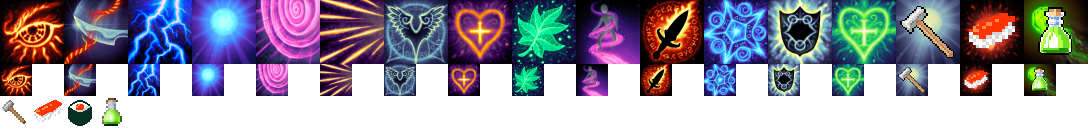
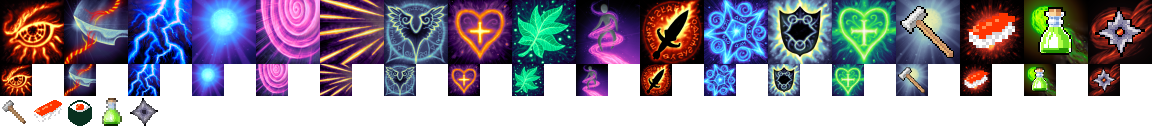
Karateh Masta: an unlockable hero who throws ninja death stars
Beat the game (slay the Devil) and the results screen announces NEW
HERO UNLOCKED: KARATEH MASTA; the unlock is kept in localStorage. Until
then he sits in the select grid as a silhouette with a "?", and his
panel only says LOCKED / BEAT THE GAME TO UNLOCK (START won't take him).

- Art: LPC generator (white gi, black obi, red tied headband, spiked
  black hair, bare feet; CC-BY-SA, per-part credits in CREDITS-LPC.md),
  1x and HD (64px frames xBR'd then fitted to 80px); the thrust row is
  his throwing punch.
- Death Stars: a fan of 2-4 spinning throwing stars at the nearest foes,
  each slicing through 1-3 enemies (a star cuts each foe only once).
  Star and icon from 7Soul1's CC0 RPG icons on a Bjerk painted
  background; 16px projectile on the skills sheet.
- Stats: tough and quick (+20 HP, x1.2 speed, 25% crit, x1.25 damage,
  x0.85 cooldowns) — a reward for winning.
- Hurt voice: thebardofblasphemy's CC0 grunt, pitched up.

Claude-Session: https://claude.ai/code/session_01PMVu6fudvx91nmgD8yVYSR

diff --git a/game/game.js b/game/game.js
@@ -171,7 +171,7 @@ const sndHurt = () => sfx(110, 0.2, 'sawtooth', 0.08, -40);
 
 // Sampled hurt voices, one per hero (Biski meows) — see assets/CREDITS.md.
 // Decoded once audio is unlocked; until then (or on file:// pages) the synth thud stands in.
-const VOICE_FILES = ['visor', 'wildcat', 'skywitch', 'ace', 'mender', 'biski', 'neil', 'zoe', 'ana'];
+const VOICE_FILES = ['visor', 'wildcat', 'skywitch', 'ace', 'mender', 'biski', 'neil', 'zoe', 'ana', 'karate'];
 const SFX_FILES = ['banshee-scream', 'butcher-roar'];   // assets/sfx/<name>.mp3
 const voiceBuf = {};
 let voicesRequested = false, lastVoiceT = -9;
@@ -1047,7 +1047,7 @@ const ASSET_FILES = ['warrior', 'wizard', 'ranger', 'rogue', 'cleric',
   'jungle', 'snake', 'treant', 'plant', 'mosquito', 'monkey', 'frog',
   'ocean', 'axolotl', 'piranha', 'jelly', 'crab', 'shark', 'squid', 'eel', 'kraken',
   'hell', 'hellbeast', 'fireskull', 'ghoul', 'cultist', 'nightmare', 'devilkin', 'devil',
-  'map1', 'map2', 'map3', 'map4', 'map5'];
+  'map1', 'map2', 'map3', 'map4', 'map5', 'karate'];
 const assets = {};
 function loadAssets() {
   return Promise.all(ASSET_FILES.map(name => new Promise((res, rej) => {
@@ -1188,6 +1188,7 @@ const SHEETS = {
   neil:     { file: 'neil',       size: 40, rows: STD, frames: { idle: 1, walk: 8, attack: 7, death: 6 } },
   zoe:      { file: 'zoe',        size: 40, rows: STD, frames: { idle: 1, walk: 8, attack: 6, death: 1 } },
   ana:      { file: 'ana',        size: 40, rows: STD, frames: { idle: 1, walk: 8, attack: 7, death: 6 } },
+  karate:   { file: 'karate',     size: 40, rows: STD, frames: { idle: 1, walk: 8, attack: 8, death: 6 } },
   butcher:  { file: 'butcher',  size: 96, rows: STD, frames: { idle: 1, walk: 8, attack: 10, death: 6 } },
   banshee:  { file: 'banshee',  size: 40, rows: STD, frames: { idle: 1, walk: 4, attack: 4, death: 2 } },
   golem:    { file: 'golem',    size: 48, rows: STD, frames: { idle: 1, walk: 7, attack: 7, death: 7 } },
@@ -1224,9 +1225,9 @@ const SHEETS = {
 };
 // painted skill icons (assets/skills.png): row 0 = 32x32, row 1 = 16x16, in this order
 const SKILL_ORDER = ['optic', 'claws', 'storm', 'orbs', 'nova', 'cards', 'boots', 'vitality',
-  'regen', 'magnet', 'power', 'focus', 'plating', 'heal', 'hammer', 'sushi', 'acid'];
-// projectile sprites on the sheet's bottom row (y=48): hammer 14px, nigiri 16px, maki 16px, acid flask 16px
-const PROJ = { hammer: [0, 49, 14, 14], nigiri: [16, 48, 16, 16], maki: [32, 48, 16, 16], flask: [48, 48, 16, 16] };
+  'regen', 'magnet', 'power', 'focus', 'plating', 'heal', 'hammer', 'sushi', 'acid', 'stars'];
+// projectile sprites on the sheet's bottom row (y=48): hammer 14px, nigiri 16px, maki 16px, acid flask 16px, throwing star 16px
+const PROJ = { hammer: [0, 49, 14, 14], nigiri: [16, 48, 16, 16], maki: [32, 48, 16, 16], flask: [48, 48, 16, 16], star: [64, 48, 16, 16] };
 // draw a projectile centred on (x, y), turned in quarter steps so pixels stay square
 function drawProj(key, x, y, quarter = 0) {
   if (!SPR.skills) return;
@@ -2301,6 +2302,27 @@ const WEAPON_DEFS = {
       return true;
     },
   },
+  stars: {
+    name: 'Death Stars',
+    desc: 'A fan of spinning throwing stars that slice through several foes each.',
+    cd: 0.75,
+    fire(w) {
+      const n = 2 + Math.floor(w.level / 2) + ampN();   // 2,3,3,4,4
+      const targets = nearestEnemies(n);
+      if (!targets.length) return false;
+      for (let i = 0; i < n; i++) {
+        const t = targets[i % targets.length], spread = i < targets.length ? 0 : (i % 2 ? 1 : -1) * 0.22 * Math.ceil(i / 2);
+        const a = Math.atan2(t.y - player.y, t.x - player.x) + spread;
+        bullets.push({
+          x: player.x, y: player.y - 16, vx: Math.cos(a) * 470, vy: Math.sin(a) * 470,
+          r: 6 * amp(), dmg: (9 + w.level * 5) * player.dmgMult, life: 1.1, t: 0,
+          kind: 'star', pierce: 1 + Math.floor(w.level / 2), hits: new Set(),
+        });
+      }
+      sfx(1400, 0.05, 'triangle', 0.025, -600);   // the swish
+      return true;
+    },
+  },
   cards: {
     name: 'Kinetic Cards',
     desc: 'Charged playing cards that detonate on impact.',
@@ -2375,7 +2397,24 @@ const HEROES = [
   { id: 'ana', name: 'Ana', sprite: 'ana', color: '#92FF24',
     tag: 'Acid thrower', desc: 'Black glasses, a mane of blonde curls and a bag of acid flasks. They shatter into puddles that eat anything standing in them.',
     weapon: 'acid', mods: () => { player.maxHp += 10; player.hp += 10; player.magnetR *= 1.15; player.cdMult *= 0.95; } },
+  // the reward for beating the game: locked until the Devil falls
+  { id: 'karate', name: 'Karateh Masta', sprite: 'karate', color: '#FF2424', unlock: 'win',
+    tag: 'Death-star thrower', desc: 'A red headband, a black belt and a bottomless gi full of ninja death stars. Fast, deadly, and never misses a beat.',
+    weapon: 'stars', mods: () => {
+      player.maxHp += 20; player.hp += 20; player.speed *= 1.2; player.critChance = 0.25; player.dmgMult *= 1.25; player.cdMult *= 0.85;
+    } },
 ];
+// unlockable heroes, kept in this browser's localStorage
+const UNLOCK_KEY = 'mutant-academy-unlocks';
+let unlocks = [];
+try { unlocks = JSON.parse(localStorage.getItem(UNLOCK_KEY) || '[]'); } catch (e) {}
+const heroLocked = h => !!h.unlock && !unlocks.includes(h.id);
+function unlockHero(id) {
+  if (unlocks.includes(id)) return false;
+  unlocks.push(id);
+  try { localStorage.setItem(UNLOCK_KEY, JSON.stringify(unlocks)); } catch (e) {}
+  return true;
+}
 // Read each hero's real stats by running their mods on a scratch copy of the
 // base player — the select screen can never disagree with the game.
 function heroStats(h) {
@@ -3230,6 +3269,7 @@ function endGame(won) {
   banners.length = 0;
   stopMusic();
   if (won) sndClear(); else sndGameOver();
+  state.unlocked = won && unlockHero('karate') ? 'KARATEH MASTA' : null;   // beating the game frees the karate master
   tally = {
     t: 0, tickT: 0, done: false,
     lines: [
@@ -3297,7 +3337,10 @@ function uiKey(k) {
       sndMove();
     }
     else if (k === 'arrowdown' || k === 's') { selIndex = selIndex + SEL_COLS < n ? selIndex + SEL_COLS : selIndex % SEL_COLS; sndMove(); }
-    else if (OK_KEYS.has(k)) startGame(HEROES[selIndex]);
+    else if (OK_KEYS.has(k)) {
+      if (heroLocked(HEROES[selIndex])) sfx(110, 0.2, 'square', 0.05, -30);   // locked: a dull buzz
+      else startGame(HEROES[selIndex]);
+    }
     return;
   }
   if (scene === 'play') {
@@ -3573,6 +3616,7 @@ function update(dt) {
       continue;
     }
     b.x += b.vx * dt; b.y += b.vy * dt; b.life -= dt;
+    if (b.t !== undefined) b.t += dt;
     let dead = b.life <= 0;
     if (!dead) {
       for (const bz of state.brazList || []) {
@@ -3582,7 +3626,9 @@ function update(dt) {
     if (!dead) {
       for (let j = 0; j < enemies.length; j++) {
         const e = enemies[j];
+        if (b.hits && b.hits.has(e)) continue;   // a piercing star cuts each foe only once
         if (dist2(e.x, e.y, b.x, b.y) < (e.r + b.r) ** 2) {
+          if (b.hits) b.hits.add(e);
           if (b.aoe) {
             effects.push({ type: 'boom', x: b.x, y: b.y, radius: b.aoe, life: 0.25, maxLife: 0.25 });
             for (const e2 of [...enemies]) {
@@ -4660,6 +4706,10 @@ function renderWorld() {
       rect(x - 1, y - 2, 1, 1, C.white);
       continue;
     }
+    if (b.kind === 'star') {      // a throwing star, spinning in quarter turns
+      drawProj('star', x, y, Math.floor(b.t * 24));
+      continue;
+    }
     if (b.kind === 'card') {
       const f = [0, 1, 2, 1][Math.floor(b.life * 16) % 4];
       ctx.drawImage(CARD[f], x - 2, y - 3);
@@ -5173,7 +5223,7 @@ function drawHeroIn(h, anim, frame, bx, by, bw, bh, k, feetY) {
   const def = SHEETS[h.sprite], s = def.size, dw = Math.round(s * k);
   ctx.save();
   ctx.beginPath(); ctx.rect(bx, by, bw, bh); ctx.clip();
-  ctx.drawImage(SPR[def.file].base, frame * s, def.rows[anim] * s, s, s,
+  ctx.drawImage(SPR[def.file][heroLocked(h) ? 'shade' : 'base'], frame * s, def.rows[anim] * s, s, s,
     Math.round(bx + bw / 2 - dw / 2), Math.round(feetY - dw + 3 * k), dw, dw);
   ctx.restore();
 }
@@ -5208,6 +5258,7 @@ function renderSelect() {
     const anim = on ? 'walk' : 'idle';
     const frame = Math.floor(uiTime * 10 + i * 2) % frameCount(h.sprite, anim);
     drawHeroIn(h, anim, frame, bx + 2, by + 2, L.cell - 4, L.cell - 4, 1, by + 38);
+    if (heroLocked(h)) drawText('?', bx + L.cell - 8, by + 4, C.lgrey);
     addHit(bx, by, L.cell, L.cell, 'hero:' + i);
   });
 
@@ -5222,6 +5273,20 @@ function renderSelect() {
   ctx.drawImage(sh, x0 + 34 - (sh.width >> 1), y0 + 60 - (sh.height >> 1));
   drawHeroIn(h, 'walk', Math.floor(uiTime * 10) % frameCount(h.sprite, 'walk'), x0 + 1, y0 + 1, 66, 66, 2, y0 + 60);
   const tx = x0 + 74, tw = L.pw - (tx - L.px) - 6;
+  const locked = heroLocked(h);
+  if (locked) {   // the unlockable hero keeps his secrets until you've won
+    drawText('???', tx, y0 + 2, C.lgrey, { scale: 2, outline: C.black });
+    drawText('LOCKED', tx, y0 + 21, C.red);
+    drawText('BEAT THE GAME', tx, y0 + 33, C.yellow);
+    drawText('TO UNLOCK', tx, y0 + 43, C.yellow);
+    wrapText('SLAY THE DEVIL IN ACT V AND A NEW HERO JOINS THE ACADEMY.', L.pw - 12).forEach((ln, i) => drawText(ln, x0, y0 + 85 + i * 9, C.white));
+    const bw = 52, bh = 15, bxs = L.px + L.pw - bw - 6, bys = L.py + L.ph - bh - 6;
+    drawWindow(bxs, bys, bw, bh, { bands: ['#494949', '#242424'], border: C.grey });
+    drawText('LOCKED', bxs + bw / 2, bys + 4, C.lgrey, { align: 'center' });
+    drawText(W >= 340 ? 'ARROWS: CHOOSE   ENTER: START   M: SOUND' : 'TAP A HERO, THEN START', W / 2, H - 12, C.grey, { align: 'center' });
+    renderCornerIcons(false);
+    return;
+  }
   const nsc = textW(norm(h.name), 2) <= tw ? 2 : 1;
   drawText(h.name, tx, y0 + 2, C.white, { scale: nsc, outline: C.black, grad: GOLD_GRAD });
   drawText(h.tag, tx, y0 + 4 + 7 * nsc + 3, C.cyan);
@@ -5358,6 +5423,10 @@ function renderResults() {
     drawText(ln.fmt ? ln.fmt(v) : String(v), wx + ww - 12, y, C.white, { align: 'right' });
   });
   if (tally.done && blink(2)) drawText('PRESS START', W / 2, wy + wh - 13, C.white, { align: 'center' });
+  if (state.unlocked && tally.done) {
+    drawText('NEW HERO UNLOCKED!', W / 2, wy + wh + 10, blink(3) ? C.yellow : C.white, { align: 'center', outline: C.black });
+    drawText(state.unlocked, W / 2, wy + wh + 22, C.white, { scale: textW(state.unlocked, 2) <= W - 16 ? 2 : 1, align: 'center', outline: C.black, grad: RED_GRAD });
+  }
   addHit(0, 0, W, H, 'any');
 }
 function renderBoot() {

diff --git a/game/assets/CREDITS-LPC.md b/game/assets/CREDITS-LPC.md
@@ -1,4 +1,4 @@
-# LPC credits for Neil, Zoe, Ana, the Butcher and the Leaping Lizard
+# LPC credits for Neil, Zoe, Ana, Karateh Masta, the Butcher and the Leaping Lizard
 
 `neil.png`, `zoe.png` and `butcher.png` were composed with the Universal LPC Spritesheet Character Generator
 (https://github.com/LiberatedPixelCup/Universal-LPC-Spritesheet-Character-Generator), then
@@ -336,6 +336,140 @@ hair/curly_long/adult/walk.png
 		- ElizaWy
 	- Links:
 		- https://opengameart.org/content/lpc-hair
+```
+
+## Karateh Masta
+
+Male body and head, angry face, spiked black hair, red tied headband, white v-neck longsleeve and
+white pants (the gi), black obi with its knot, bare feet.
+
+```
+body/bodies/male/walk.png
+	- Note: see details at https://opengameart.org/content/lpc-character-bases; 'Thick' Male Revised Run/Climb by JaidynReiman (based on ElizaWy's LPC Revised)
+	- Licenses:
+		- OGA-BY 3.0
+		- CC-BY-SA 3.0
+		- GPL 3.0
+	- Authors:
+		- bluecarrot16
+		- JaidynReiman
+		- Benjamin K. Smith (BenCreating)
+		- Evert
+		- Eliza Wyatt (ElizaWy)
+		- TheraHedwig
+		- MuffinElZangano
+		- Durrani
+		- Johannes Sjölund (wulax)
+		- Stephen Challener (Redshrike)
+	- Links:
+		- https://opengameart.org/content/liberated-pixel-cup-lpc-base-assets-sprites-map-tiles
+		- https://opengameart.org/content/lpc-medieval-fantasy-character-sprites
+		- https://opengameart.org/content/lpc-male-jumping-animation-by-durrani
+		- https://opengameart.org/content/lpc-runcycle-and-diagonal-walkcycle
+		- https://opengameart.org/content/lpc-revised-character-basics
+		- https://opengameart.org/content/lpc-be-seated
+		- https://opengameart.org/content/lpc-runcycle-for-male-muscular-and-pregnant-character-bases-with-modular-heads
+		- https://opengameart.org/content/lpc-jump-expanded
+		- https://opengameart.org/content/lpc-character-bases
+
+head/heads/human/male/walk.png
+	- Note: original head by Redshrike, tweaks by BenCreating, modular version by bluecarrot16
+	- Licenses:
+		- OGA-BY 3.0
+		- CC-BY-SA 3.0
+		- GPL 3.0
+	- Authors:
+		- bluecarrot16
+		- Benjamin K. Smith (BenCreating)
+		- Stephen Challener (Redshrike)
+	- Links:
+		- https://opengameart.org/content/liberated-pixel-cup-lpc-base-assets-sprites-map-tiles
+		- https://opengameart.org/content/lpc-character-bases
+
+head/faces/male/anger/walk.png
+	- Note: Original by Redshrike, Expressions by ElizaWy, mapped to all frames by JaidynReiman
+	- Licenses:
+		- OGA-BY 3.0
+	- Authors:
+		- JaidynReiman
+		- ElizaWy
+		- Stephen Challener (Redshrike)
+	- Links:
+		- https://github.com/ElizaWy/LPC/tree/main/Characters/Head
+		- https://opengameart.org/content/ulpc-expanded-expressions
+
+hair/spiked/adult/walk.png
+	- Licenses:
+		- CC-BY 4.0
+	- Authors:
+		- kcilds/Rocetti/Eredah
+	- Links:
+		- https://opengameart.org/content/eredah-rpg-character-base-48x64-ongoing
+		- https://opengameart.org/content/lpc-hair
+
+torso/clothes/longsleeve/longsleeve2_vneck/male/walk.png
+	- Note: original by ElizaWy; spellcast/thrust/shoot/hurt/male adapted from original by JaidynReiman
+	- Licenses:
+		- OGA-BY 3.0
+	- Authors:
+		- ElizaWy
+		- JaidynReiman
+		- Stephen Challener (Redshrike)
+		- Johannes Sjölund (wulax)
+	- Links:
+		- http://opengameart.org/content/lpc-revised-character-basics
+		- https://github.com/ElizaWy/LPC/tree/main/Characters/Clothing
+		- https://opengameart.org/content/lpc-expanded-sit-run-jump-more
+		- https://opengameart.org/content/lpc-expanded-simple-shirts
+
+legs/pants/male/walk.png
+	- Note: original male pants by wulax, recolors and edits to v3 base by bluecarrot16, climb/jump/run/sit/emotes/revised combat by JaidynReiman based on ElizaWy's LPC Revised
+	- Licenses:
+		- OGA-BY 3.0
+		- GPL 3.0
+		- CC-BY-SA 3.0
+	- Authors:
+		- bluecarrot16
+		- JaidynReiman
+		- ElizaWy
+		- Matthew Krohn (makrohn)
+		- Johannes Sjölund (wulax)
+		- Stephen Challener (Redshrike)
+	- Links:
+		- https://opengameart.org/content/liberated-pixel-cup-lpc-base-assets-sprites-map-tiles
+		- https://opengameart.org/content/lpc-medieval-fantasy-character-sprites
+		- https://opengameart.org/content/lpc-expanded-pants
+
+torso/waist/obi/male/walk/black.png
+	- Licenses:
+		- OGA-BY 3.0+
+		- CC-BY 3.0+
+		- GPL 3.0
+	- Authors:
+		- JaidynReiman
+	- Links:
+		- https://opengameart.org/content/lpc-kimono-relm
+
+torso/waist/obi/knot/left/male/walk/black.png
+	- Licenses:
+		- OGA-BY 3.0+
+		- CC-BY 3.0+
+		- GPL 3.0
+	- Authors:
+		- JaidynReiman
+	- Links:
+		- https://opengameart.org/content/lpc-kimono-relm
+
+hat/headband/tied/adult/walk.png
+	- Licenses:
+		- OGA-BY 3.0
+		- CC-BY-SA 3.0
+		- GPL 3.0
+	- Authors:
+		- Nila122
+	- Links:
+		- https://opengameart.org/content/lpc-lizard-headgear
+		- https://opengameart.org/content/lpc-expanded-hats-facial-helmets
 ```
 
 ## The Butcher

diff --git a/game/assets/CREDITS.md b/game/assets/CREDITS.md
@@ -108,9 +108,9 @@ Trimmed, pitch-adjusted for some heroes, normalised and re-encoded as MP3:
   **NocturnalVanguard**, **CC0**: https://opengameart.org/content/female-hurt-grunts-groans
 - `hurt-biski` — "Meow" by **IgnasD**, **CC0**: https://opengameart.org/content/meow
 
-## Heroes: Neil, Zoe and Ana
+## Heroes: Neil, Zoe, Ana and Karateh Masta
 
-`neil.png`, `zoe.png` and `ana.png` are built from Liberated Pixel Cup (LPC) parts via the
+`neil.png`, `zoe.png`, `ana.png` and `karate.png` are built from Liberated Pixel Cup (LPC) parts via the
 Universal LPC Spritesheet Character Generator (OGA-BY 3.0 / CC-BY-SA 3.0 /
 GPL 3.0 depending on part); downscaled and repacked. These sheets are
 therefore shared under **CC-BY-SA 3.0**. Every part's authors and links are
@@ -128,7 +128,13 @@ listed in [`CREDITS-LPC.md`](CREDITS-LPC.md).
 - Icon backgrounds — J. W. Bjerk's Painterly Spell Icons (CC-BY 3.0, above),
   including `fireball-acid-2` behind the acid flask.
 
-## Voices for Neil, Zoe and Ana
+## Death Stars (Karateh Masta's weapon, in `skills.png`)
+
+- Throwing star — `W_Throw004` from "496 pixel art icons for medieval/fantasy RPG",
+  original icons by **7Soul1**, compiled by **gnola14**, **CC0** (as above).
+- Icon background — `wind-red-2` from J. W. Bjerk's Painterly Spell Icons (CC-BY 3.0, above).
+
+## Voices for Neil, Zoe, Ana and Karateh Masta
 
 - `hurt-neil` — thebardofblasphemy's CC0 male grunts (above).
 - `hurt-zoe` — "Ouch" from "24 Cute Fighting Game Voice Recordings" by
@@ -136,6 +142,8 @@ listed in [`CREDITS-LPC.md`](CREDITS-LPC.md).
   https://opengameart.org/content/24-cute-fighting-game-voice-recordings
 - `hurt-ana` — "Ow" from the same "24 Cute Fighting Game Voice Recordings" by
   **bart**, **CC-BY 3.0** (trimmed, loudness-matched).
+- `hurt-karate` — thebardofblasphemy's CC0 male grunts (the `hurt-ace` take),
+  pitched up 12% into a sharper shout.
 
 ## Sanctuary: cathedral floor, props, the Butcher, banshees
 
